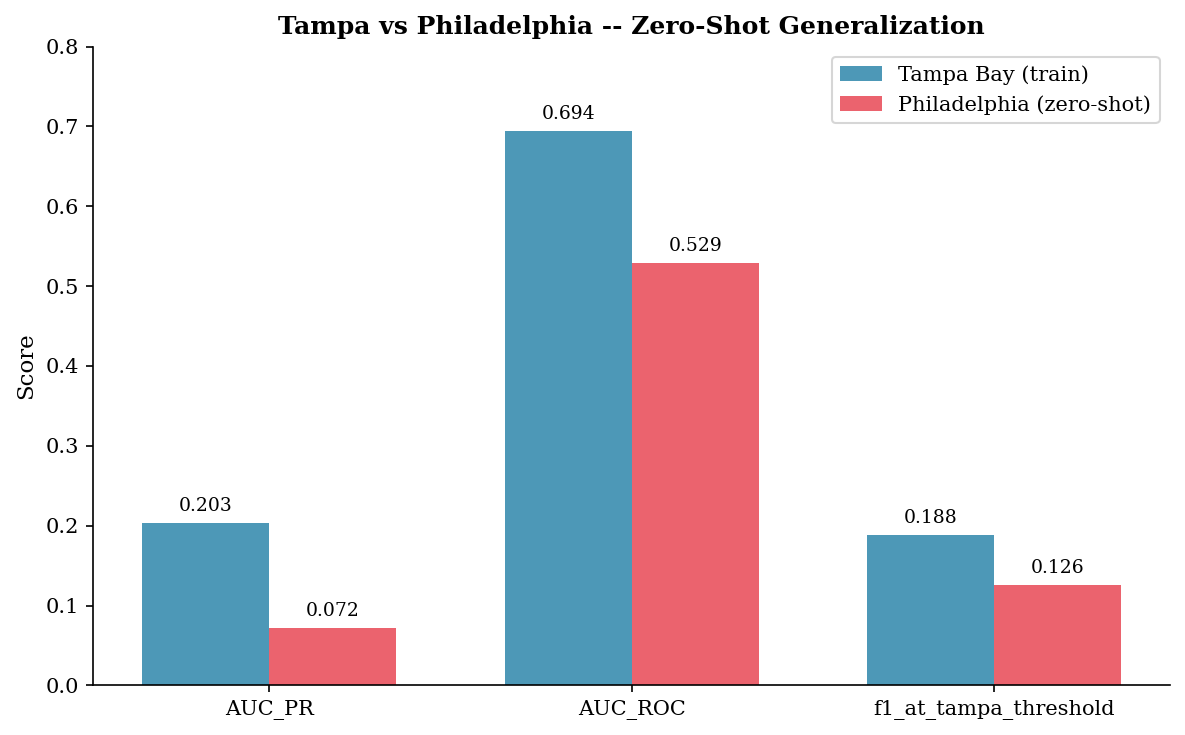
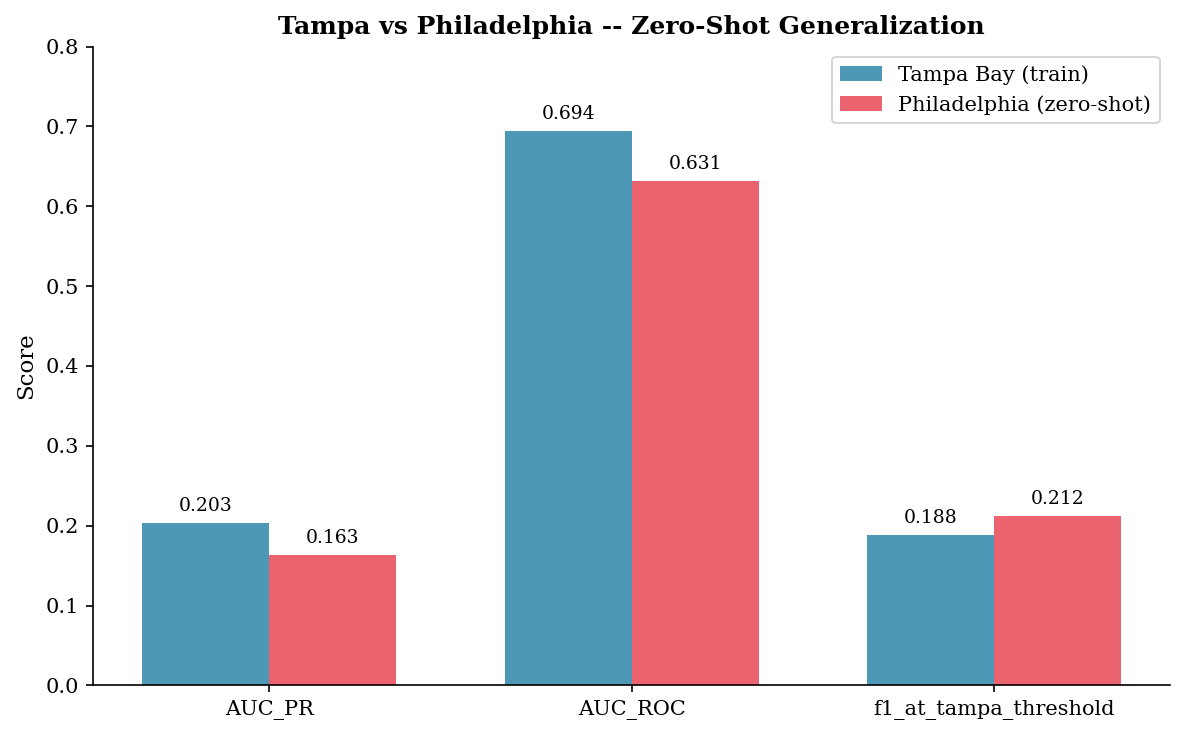
fix: correct label logic + missing-feature handling in Philadelphia pipeline

Changed region(s): [[0.8118, 0.6585, 0.9679, 0.8082], [0.5308, 0.2095, 0.6557, 0.3592], [0.2186, 0.7184, 0.3435, 0.868]]

diff --git a/08_philadelphia.py b/08_philadelphia.py
@@ -113,8 +113,14 @@ def build_labels_philly(biz: pd.DataFrame, reviews: pd.DataFrame) -> pd.DataFram
         obs_start   = anchor - relativedelta(months=OBS_MONTHS)
         outcome_end = anchor + relativedelta(months=OUTCOME_MONTHS)
 
-        last_review = rev["date"].max()
-        closed = int(b["is_open"] == 0 and last_review <= outcome_end)
+        last_review_ever = rev["date"].max()
+        # Mirror 02_build_labels.py build_label() — review recency only, not is_open
+        if last_review_ever > outcome_end + relativedelta(months=3):
+            closed = 0
+        elif last_review_ever <= outcome_end:
+            closed = 1
+        else:
+            closed = 0  # ambiguous window
 
         rows.append({
             "business_id":        bid,
@@ -184,12 +190,12 @@ def build_features_philly(
 
 def predict_and_compare(features: pd.DataFrame, model) -> dict:
     """Apply Tampa model to Philly features and compute metrics."""
-    feat_cols = [c for c in model.feature_names_in_ if c in features.columns]
-    missing = [c for c in model.feature_names_in_ if c not in features.columns]
+    feat_cols = list(model.feature_names_in_)
+    missing = [c for c in feat_cols if c not in features.columns]
     if missing:
         print(f"    WARNING: {len(missing)} features missing from Philly data: {missing}")
 
-    X = features[feat_cols].copy().fillna(features[feat_cols].median())
+    X = features.reindex(columns=feat_cols).fillna(features.reindex(columns=feat_cols).median())
     y_true = features[TARGET_COL].values
     y_prob = model.predict_proba(X)[:, 1]
 
